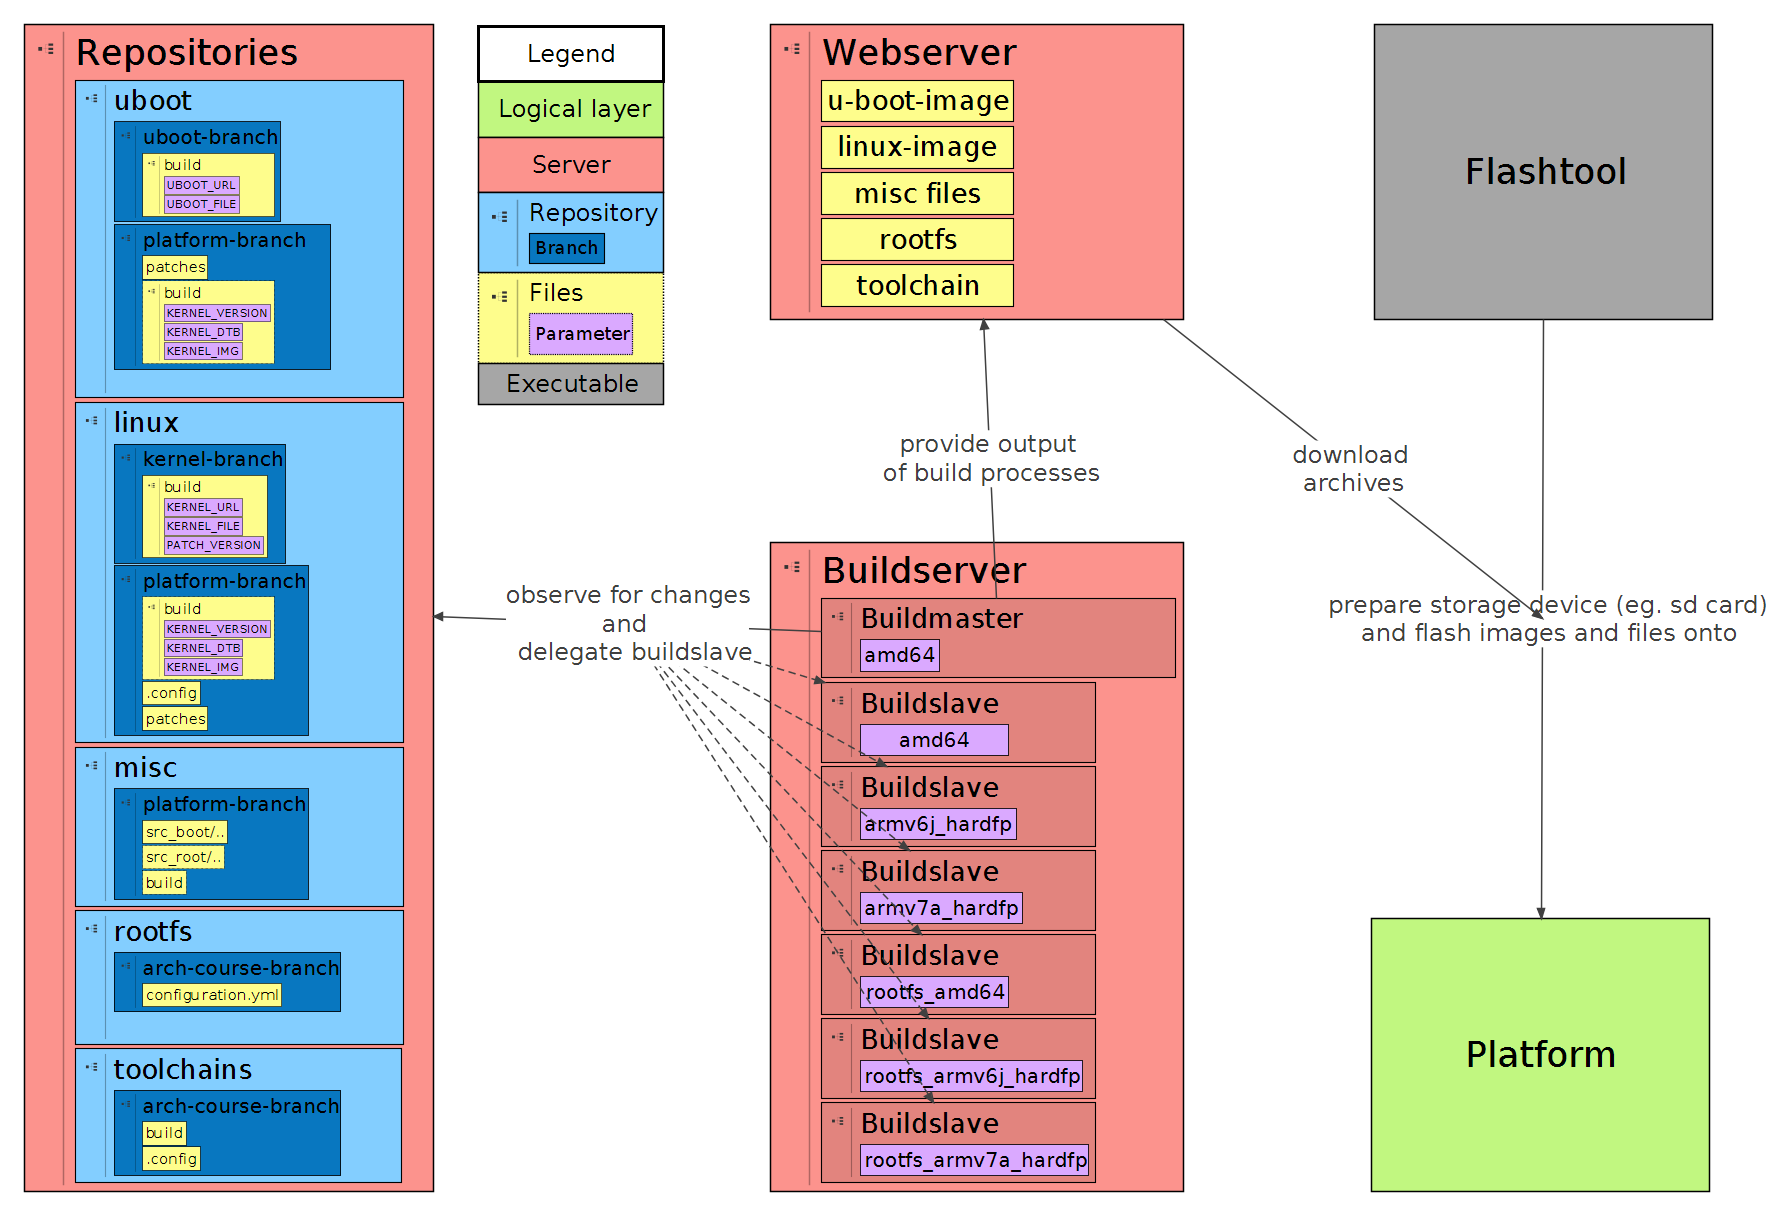
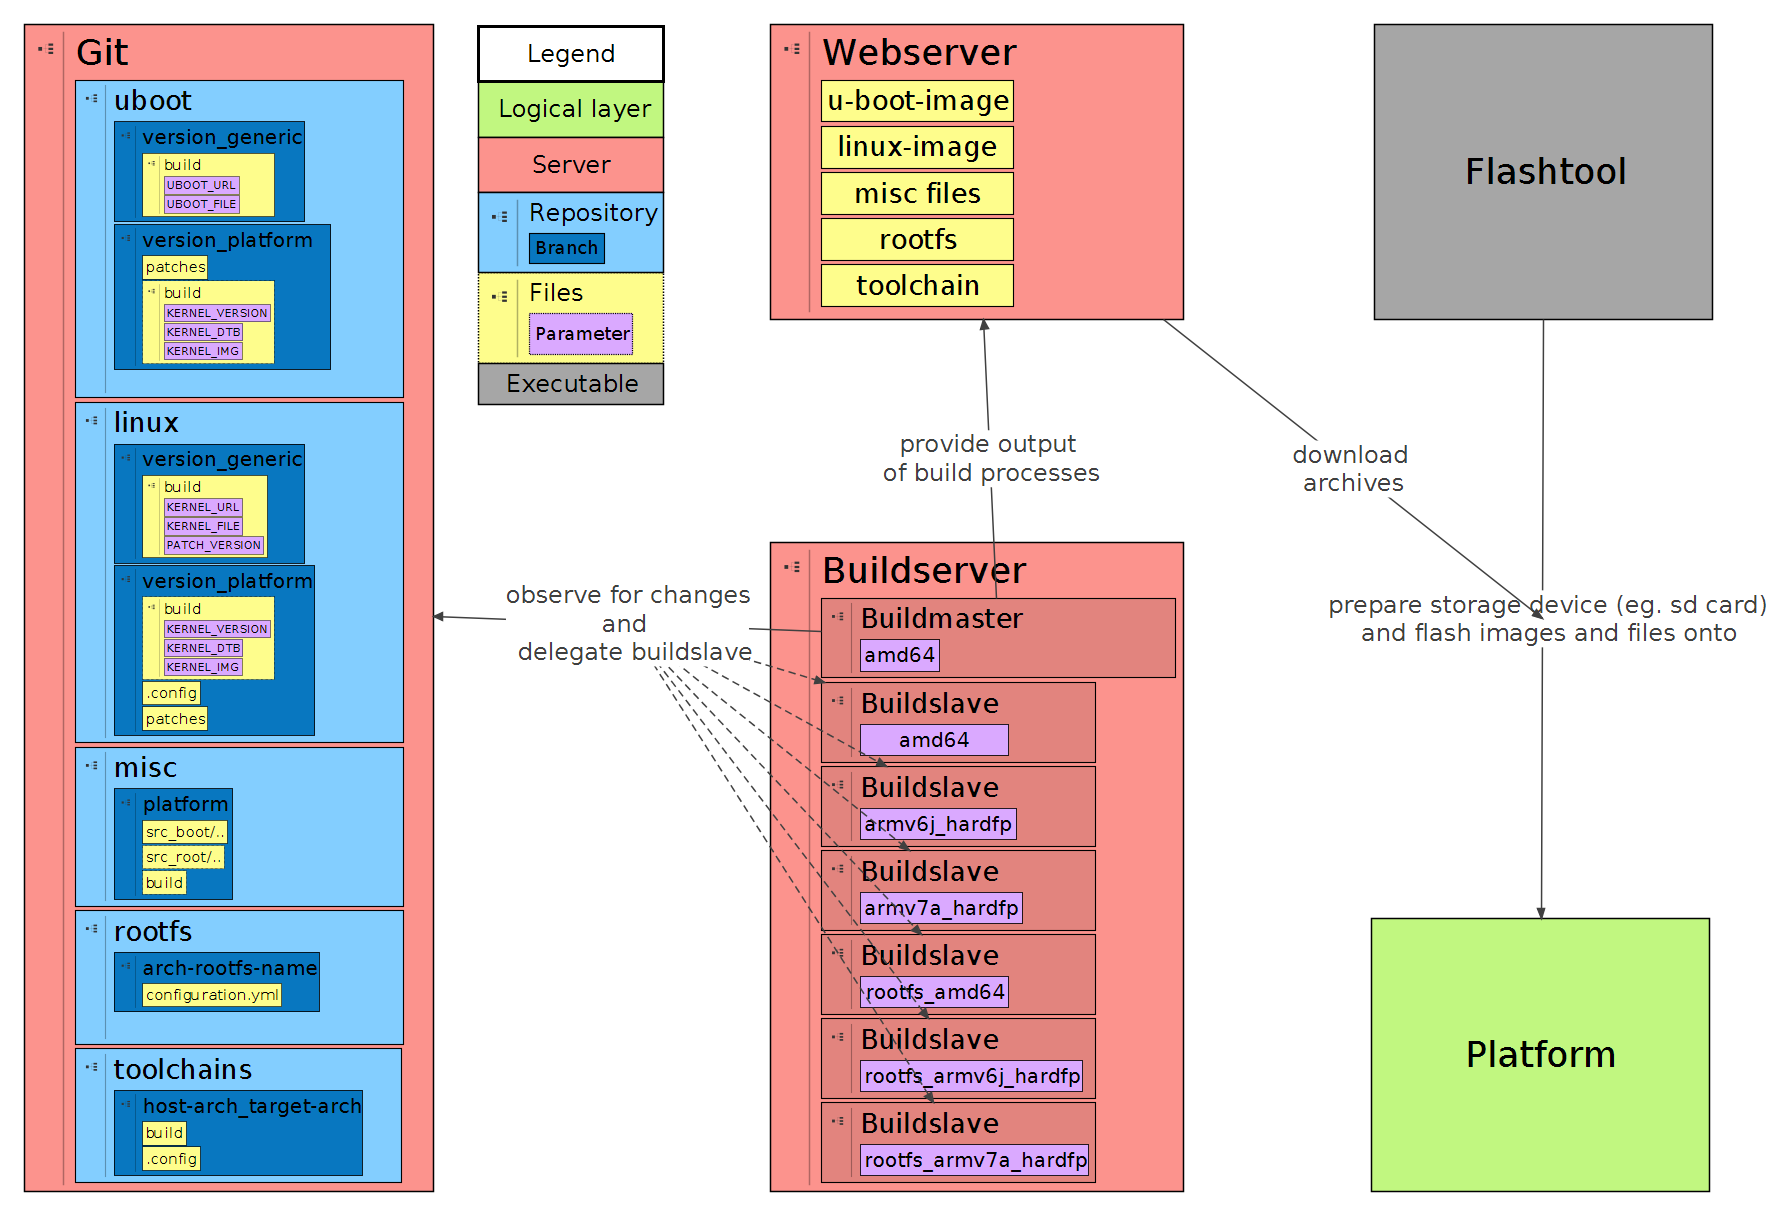
Update documentation

diff --git a/background/eval/continious-integration/index.html b/background/eval/continious-integration/index.html
@@ -9,7 +9,7 @@
         
         <link rel="shortcut icon" href="../../../img/favicon.ico">
 
-        <title>Eval/Buildserver - embEDUx Project</title>
+        <title>Eval/Continious Integration - embEDUx Project</title>
 
         <link href="../../../css/bootstrap-custom.min.css" rel="stylesheet">
         <link href="../../../css/font-awesome-4.0.3.css" rel="stylesheet">
@@ -171,7 +171,7 @@
                         </li>
                     
                         <li class="active">
-                            <a href="index.html">Eval/Buildserver</a>
+                            <a href="index.html">Eval/Continious Integration</a>
                         </li>
                     
                         <li >
@@ -261,7 +261,9 @@
             <div class="col-md-3"><div class="bs-sidebar hidden-print affix well" role="complementary">
     <ul class="nav bs-sidenav">
     
-        <li class="main active"><a href="#continuous-integration">Continuous Integration</a></li>
+        <li class="main active"><a href="#continuous-integration-ci">Continuous Integration (CI)</a></li>
+        
+            <li><a href="#ci-tasks">CI Tasks</a></li>
         
             <li><a href="#gitlab-ci">Gitlab-CI</a></li>
         
@@ -274,10 +276,25 @@
 </div></div>
             <div class="col-md-9" role="main">
 
-<h2 id="continuous-integration">Continuous Integration</h2>
-<p>The continuous integration system </p>
+<h2 id="continuous-integration-ci">Continuous Integration (CI)</h2>
+<p>The continuous integration system is responsible for scheduling the builds
+according the changes in the product repositories. It delegates scheduled builds
+to builders that are prepared with build environments specific to their mapped
+platform or the platform's architecture.</p>
+<h3 id="ci-tasks">CI Tasks</h3>
+<ul>
+<li>provide an overview of recent and running builds</li>
+<li>View Log-files or recent and running builds</li>
+<li>Allow to manually manage build jobs<ul>
+<li>(re-) Schedule builds</li>
+<li>Cancel builds</li>
+</ul>
+</li>
+</ul>
 <h3 id="gitlab-ci">Gitlab-CI</h3>
+<p>Here go the pros and cons of the Gitlab-CI</p>
 <h3 id="buildbot">buildbot</h3>
+<p>Here go the pros and cons of the buildbot</p>
 <h3 id="scheduler-configuratoin">Scheduler configuratoin</h3>
 <p>A suitable scheduler for our purpose could be the
 <a href="http://docs.buildbot.net/current/manual/cfg-schedulers.html#anybranchscheduler">anybranchscheduler</a>.</p>

diff --git a/background/design/repositories-and-branches/index.html b/background/design/repositories-and-branches/index.html
@@ -171,7 +171,7 @@
                         </li>
                     
                         <li >
-                            <a href="../../eval/buildserver/index.html">Eval/Buildserver</a>
+                            <a href="../../eval/continious-integration/index.html">Eval/Continious Integration</a>
                         </li>
                     
                         <li >
@@ -247,7 +247,7 @@
                     </a>
                 </li>
                 <li >
-                    <a rel="prev" href="../../eval/buildserver/index.html">
+                    <a rel="prev" href="../../eval/continious-integration/index.html">
                         Next <i class="fa fa-arrow-right"></i>
                     </a>
                 </li>
@@ -318,23 +318,23 @@ should be setup, and the User should be able to understand the importance of the
 different repositories and branches for the <strong>embEDUx</strong> project. </p>
 <p><a href="../../../usage/common/img/repositories.png"><img alt="Repository structure" src="../../../usage/common/img/repositories.png" /></a></p>
 <h3 id="footnotes">Footnotes</h3>
-<p>TODO LARS
-1. Source branch</p>
-<pre><code>Each version of the **Linux** kernel needs to have exactly one *kernel*
-branch in the *linux* repository. Also for each version of **U-Boot**,
-exactly one *uboot* branch is needed in the *uboot* repository.
-</code></pre>
 <ol>
 <li>
+<p>Source branch</p>
+<p>Each version of the <strong>Linux</strong> kernel needs to have exactly one
+<em>version_generic</em> branch in the <em>linux</em> repository. Also for each version
+of <strong>U-Boot</strong>, exactly one <em>version_generic</em> branch is needed in the
+<em>uboot</em> repository.</p>
+</li>
+<li>
 <p>Platform branch</p>
-<p>For each platform there needs to be one <em>platform</em> branch in the <em>linux</em>,
+<p>For each platform there needs to be one <em>version_platform</em> branch in the <em>linux</em>,
 <em>uboot</em> and <em>misc</em> repository.</p>
 </li>
 <li>
 <p>RootFS repository</p>
-<p>As multiple Platforms have the same architecture, there is only one RootFS
-needed for each architecture. But as there are multiple courses offered,
-which need different RootFS, each RootFS is build for each architecture.</p>
+<p>For each RootFS -&gt; architekture dependency (which can be directly inherited
+from the platform) there needs to be one branch.</p>
 </li>
 <li>
 <p>Toolchain repository</p>

diff --git a/background/background/index.html b/background/background/index.html
@@ -171,7 +171,7 @@
                         </li>
                     
                         <li >
-                            <a href="../eval/buildserver/index.html">Eval/Buildserver</a>
+                            <a href="../eval/continious-integration/index.html">Eval/Continious Integration</a>
                         </li>
                     
                         <li >
@@ -301,7 +301,7 @@ on a team-project, supervised by a professor. Namely, these are</p>
 </ul>
 <p>Head over to the <a href="../../support/contact-team/index.html">contacts and support page</a> if you
 want to contact any of these people.</p>
-<h2 id="project-requirements"><a href="../../Common/Requirements">Project Requirements</a></h2>
+<h2 id="project-requirements"><a href="../common/requirements/index.html">Project Requirements</a></h2>
 </div>
         </div>
 

diff --git a/background/eval/yocto-project/index.html b/background/eval/yocto-project/index.html
@@ -171,7 +171,7 @@
                         </li>
                     
                         <li >
-                            <a href="../buildserver/index.html">Eval/Buildserver</a>
+                            <a href="../continious-integration/index.html">Eval/Continious Integration</a>
                         </li>
                     
                         <li class="active">
@@ -242,7 +242,7 @@
             <ul class="nav navbar-nav navbar-right">
                 
                 <li >
-                    <a rel="next" href="../buildserver/index.html">
+                    <a rel="next" href="../continious-integration/index.html">
                         <i class="fa fa-arrow-left"></i> Previous
                     </a>
                 </li>

diff --git a/usage/rootfs/advanced/run-containers/index.html b/usage/rootfs/advanced/run-containers/index.html
@@ -171,7 +171,7 @@
                         </li>
                     
                         <li >
-                            <a href="../../../../background/eval/buildserver/index.html">Eval/Buildserver</a>
+                            <a href="../../../../background/eval/continious-integration/index.html">Eval/Continious Integration</a>
                         </li>
                     
                         <li >

diff --git a/setup/common/buildmaster/index.html b/setup/common/buildmaster/index.html
@@ -171,7 +171,7 @@
                         </li>
                     
                         <li >
-                            <a href="../../../background/eval/buildserver/index.html">Eval/Buildserver</a>
+                            <a href="../../../background/eval/continious-integration/index.html">Eval/Continious Integration</a>
                         </li>
                     
                         <li >

diff --git a/setup/customization/buildslaves-add-packages/index.html b/setup/customization/buildslaves-add-packages/index.html
@@ -171,7 +171,7 @@
                         </li>
                     
                         <li >
-                            <a href="../../../background/eval/buildserver/index.html">Eval/Buildserver</a>
+                            <a href="../../../background/eval/continious-integration/index.html">Eval/Continious Integration</a>
                         </li>
                     
                         <li >

diff --git a/setup/examples/user-documentation-HTWG/index.html b/setup/examples/user-documentation-HTWG/index.html
@@ -171,7 +171,7 @@
                         </li>
                     
                         <li >
-                            <a href="../../../background/eval/buildserver/index.html">Eval/Buildserver</a>
+                            <a href="../../../background/eval/continious-integration/index.html">Eval/Continious Integration</a>
                         </li>
                     
                         <li >

diff --git a/troubleshooting/rootfs/entering-build-environment/index.html b/troubleshooting/rootfs/entering-build-environment/index.html
@@ -171,7 +171,7 @@
                         </li>
                     
                         <li >
-                            <a href="../../../background/eval/buildserver/index.html">Eval/Buildserver</a>
+                            <a href="../../../background/eval/continious-integration/index.html">Eval/Continious Integration</a>
                         </li>
                     
                         <li >

diff --git a/usage/common/build-monitoring/index.html b/usage/common/build-monitoring/index.html
@@ -171,7 +171,7 @@
                         </li>
                     
                         <li >
-                            <a href="../../../background/eval/buildserver/index.html">Eval/Buildserver</a>
+                            <a href="../../../background/eval/continious-integration/index.html">Eval/Continious Integration</a>
                         </li>
                     
                         <li >

diff --git a/usage/rootfs/configuration.yml/index.html b/usage/rootfs/configuration.yml/index.html
@@ -171,7 +171,7 @@
                         </li>
                     
                         <li >
-                            <a href="../../../background/eval/buildserver/index.html">Eval/Buildserver</a>
+                            <a href="../../../background/eval/continious-integration/index.html">Eval/Continious Integration</a>
                         </li>
                     
                         <li >

diff --git a/setup/flashtool/index.html b/setup/flashtool/index.html
@@ -171,7 +171,7 @@
                         </li>
                     
                         <li >
-                            <a href="../../background/eval/buildserver/index.html">Eval/Buildserver</a>
+                            <a href="../../background/eval/continious-integration/index.html">Eval/Continious Integration</a>
                         </li>
                     
                         <li >
